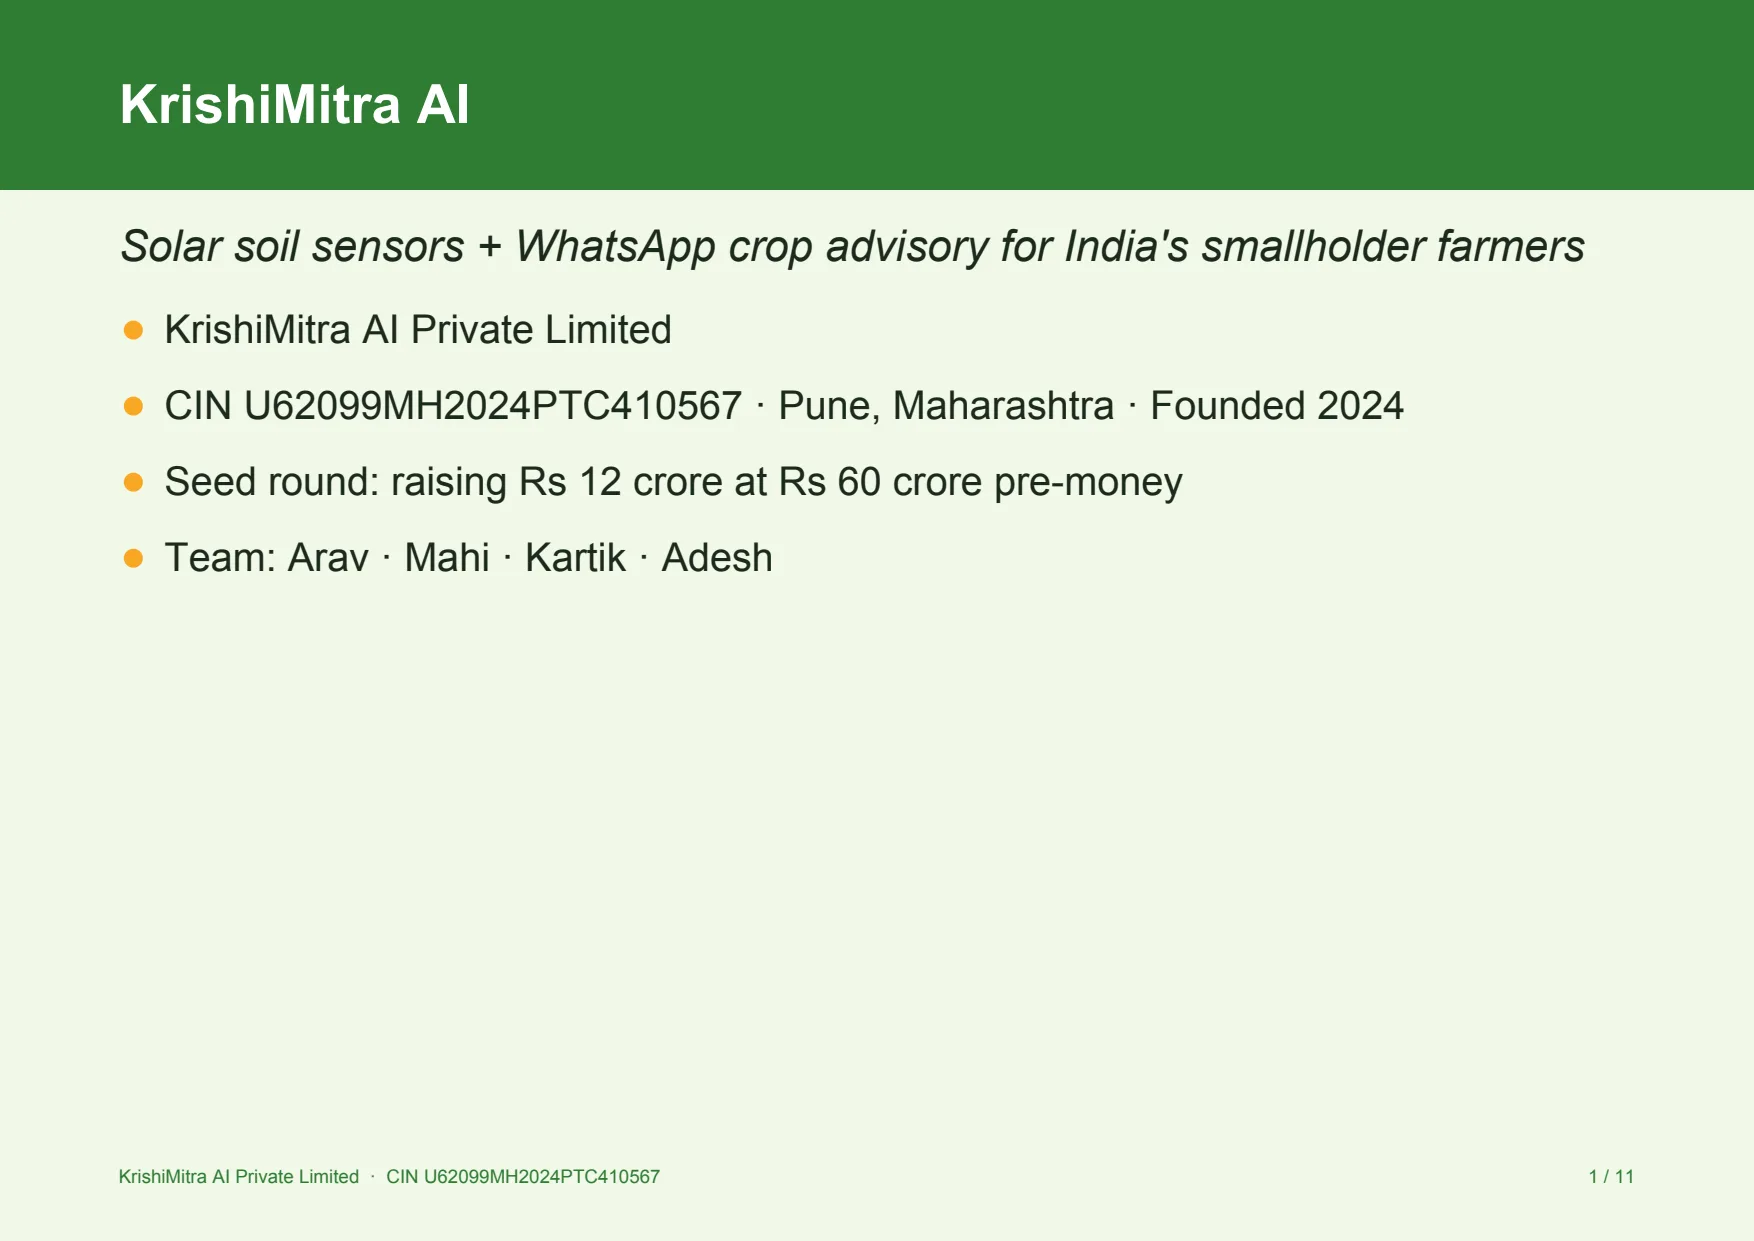
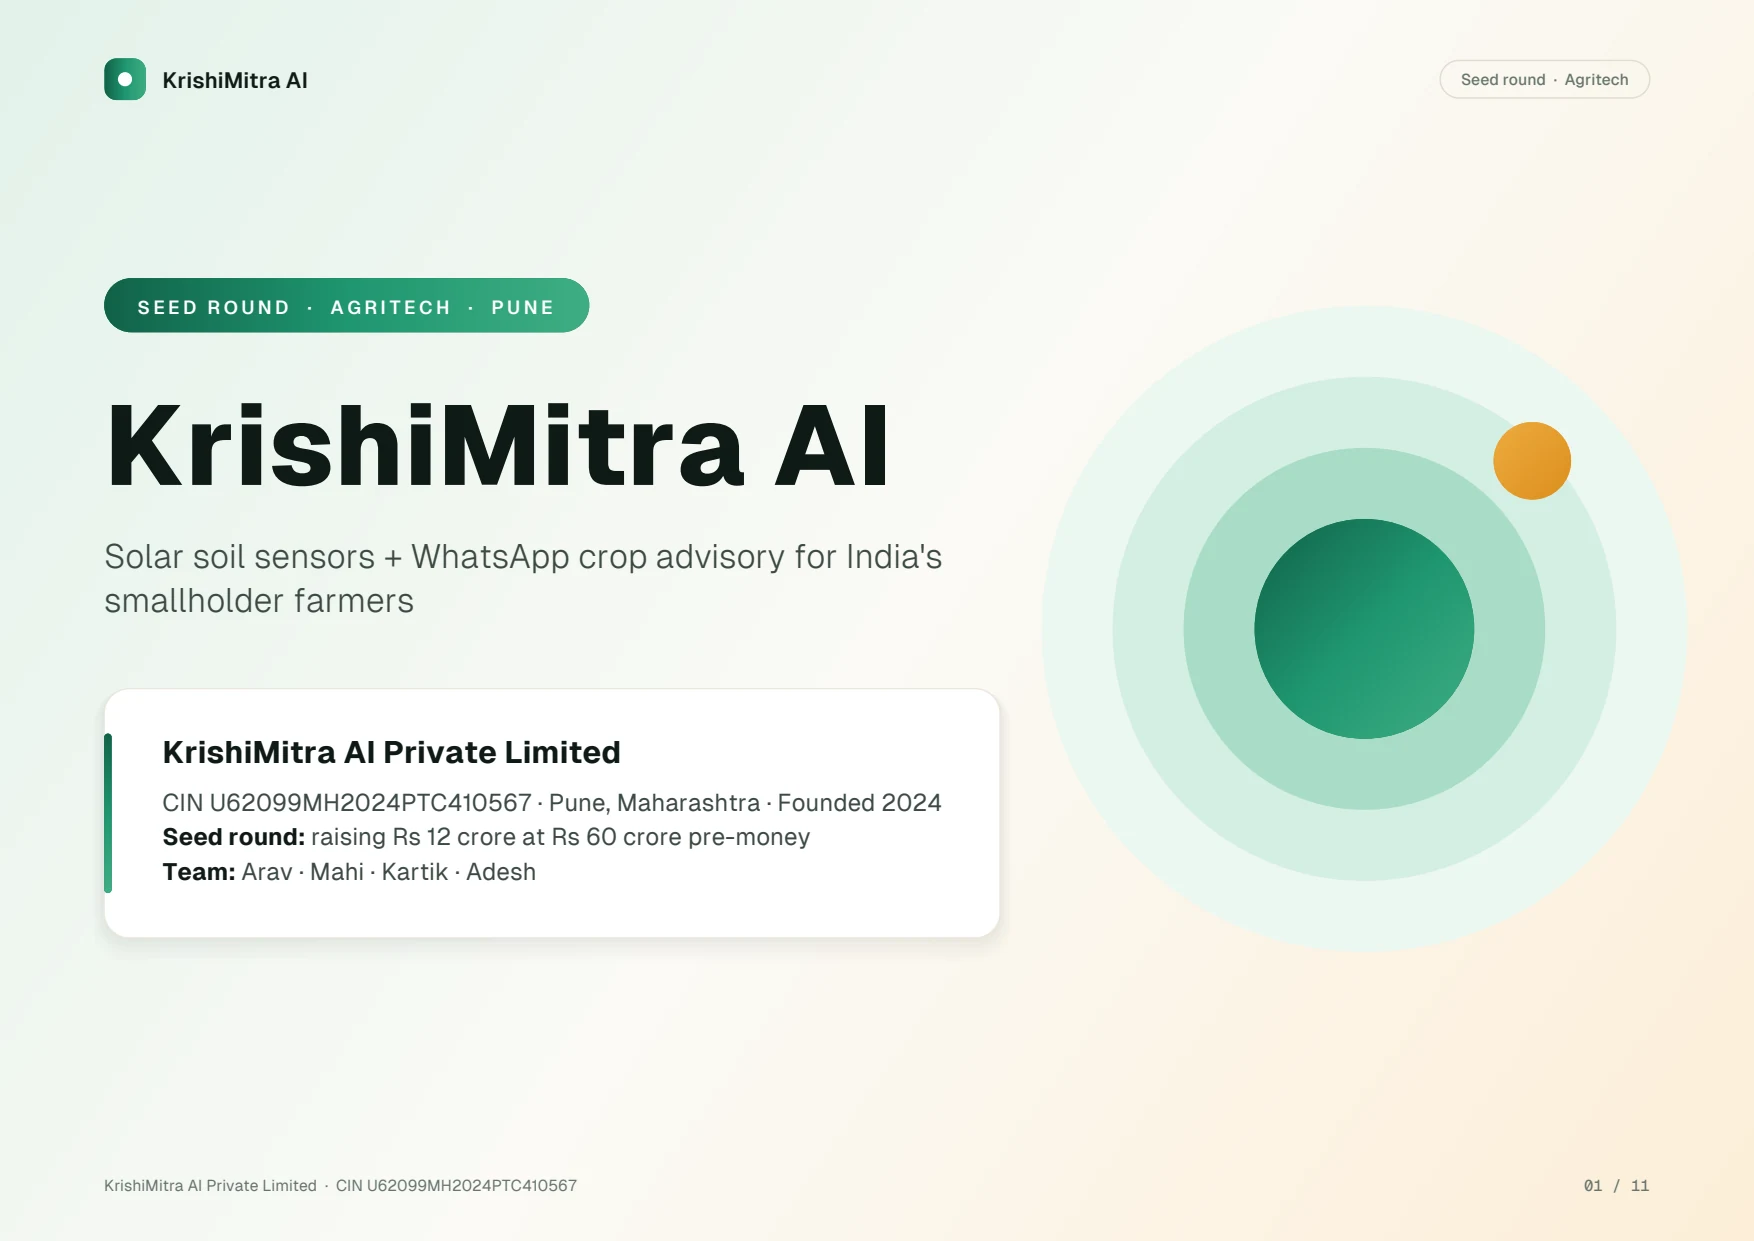
Hero: show the redesigned KrishiMitra AI deck
Page renders, TitanOCR's lines on page 4, the TAM passage's citation id and the exact box of
"USD 82.3M in 2025" (from the PDF's text layer, no longer estimated from font metrics) come from the
re-seeded deck; the Cite and Verify shots are re-aimed at the new TAM card.

diff --git a/frontend/src/components/landing/heroData.ts b/frontend/src/components/landing/heroData.ts
@@ -5,24 +5,32 @@ export const HERO_PAGE = {
   src: '/hero/krishimitra-p4.webp',
   width: 1754,
   height: 1241,
-  cid: 'c:higtc4h',
-  ocrSeconds: 6.0,
+  cid: 'c:32qwuis',
+  ocrSeconds: 5.5,
   pages: 11,
 }
 
 export const HERO_LINES: { text: string; box: [number, number, number, number] }[] = [
-  { text: 'Market Opportunity (TAM / SAM / SOM)', box: [0.0677, 0.0554, 0.63905, 0.09905] },
-  { text: 'TAM — India agriculture IoT: USD 82.3M in 2025, projected USD 154.8M by 2030', box: [0.09383, 0.17795, 0.91287, 0.20984] },
-  { text: 'at 13.5% CAGR (Source: MarketsandMarkets, India Agriculture IoT Market', box: [0.09383, 0.22324, 0.84007, 0.25514] },
-  { text: '2025-2030)', box: [0.09383, 0.26853, 0.20924, 0.30043] },
-  { text: 'SAM — Marathi/Hindi smallholder segment (Maharashtra, Karnataka, MP): USD', box: [0.09383, 0.32977, 0.8952, 0.36167] },
-  { text: '24.7M in 2025 (company estimate)', box: [0.09383, 0.37507, 0.44126, 0.40696] },
-  { text: 'SOM — 3-year obtainable share of SAM: USD 3.7M in 2028 (company projection)', box: [0.09383, 0.43631, 0.91159, 0.4682] },
-  { text: 'India agriculture IoT CAGR: 13.5% (2025-2030) (Source: MarketsandMarkets)', box: [0.09383, 0.49755, 0.87395, 0.52945] },
+  { text: "04 \u00b7 MARKET", box: [0.05939, 0.12926, 0.15935, 0.14437] },
+  { text: "Market Opportunity (TAM / SAM / SOM)", box: [0.05939, 0.14605, 0.80272, 0.19809] },
+  { text: "TAM \u2014 India agriculture IoT: USD 82.3M in 2025,", box: [0.09502, 0.28783, 0.47407, 0.31134] },
+  { text: "projected USD 154.8M by 2030 at 13.5% CAGR (Source:", box: [0.09502, 0.3198, 0.52392, 0.3433] },
+  { text: "MarketsandMarkets, India Agriculture IoT Market", box: [0.09502, 0.35176, 0.47868, 0.37526] },
+  { text: "2025-2030)", box: [0.09502, 0.38373, 0.19187, 0.40723] },
+  { text: "SAM \u2014 Marathi/Hindi smallholder segment", box: [0.09502, 0.4862, 0.43316, 0.5097] },
+  { text: "(Maharashtra, Karnataka, MP): USD 24.7M in 2025", box: [0.09502, 0.51816, 0.48624, 0.54166] },
+  { text: "(company estimate)", box: [0.09502, 0.55012, 0.24915, 0.57363] },
+  { text: "SOM \u2014 3-year obtainable share of SAM: USD 3.7M in", box: [0.09502, 0.65259, 0.50761, 0.6761] },
+  { text: "2028 (company projection)", box: [0.09502, 0.68456, 0.30494, 0.70806] },
+  { text: "India agriculture IoT CAGR: 13.5% (2025-2030)", box: [0.09502, 0.78703, 0.47184, 0.81053] },
+  { text: "(Source: MarketsandMarkets)", box: [0.09502, 0.81899, 0.32784, 0.8425] },
 ]
 
 /** The cited claim: the TAM sentence spans these lines. */
-export const CITED_LINES = [1, 2, 3]
+export const CITED_LINES = [2, 3, 4, 5]
+
+/** Where "USD 82.3M in 2025" sits on the page (from the PDF's text layer), for the market check. */
+export const HERO_FIGURE: [number, number, number, number] = [0.31984, 0.2932, 0.47409, 0.31672]
 
 export const HERO_EVALUATION = {
   score: 6.2,

diff --git a/frontend/src/components/landing/HeroDesk.tsx b/frontend/src/components/landing/HeroDesk.tsx
@@ -4,7 +4,7 @@ import { useEffect, useRef, useState } from 'react'
 import { AnimatePresence, MotionConfig, motion, useReducedMotion } from 'framer-motion'
 import { clsx } from 'clsx'
 import type { Box, Desk, DeskFrame } from './desk/scene'
-import { CITED_LINES, HERO_EVALUATION, HERO_LINES, HERO_PAGE } from './heroData'
+import { CITED_LINES, HERO_EVALUATION, HERO_FIGURE, HERO_LINES, HERO_PAGE } from './heroData'
 
 // The hero: a WebGL desk fills the section and the copy sits over its dark side. Four steps follow one real
 // claim from KrishiMitra AI's deck: TitanOCR reads the page, the claim is cited to its lines, its figure is
@@ -19,25 +19,10 @@ const STEPS = [
 const EASE = [0.16, 1, 0.3, 1] as const
 /** The entrance (camera settles, pages and coins land) plays before the first scan. */
 const SCAN_DELAY = 1800
-const FIGURE = 'USD 82.3M in 2025'
-const CLAIM_LINE = HERO_LINES[CITED_LINES[0]]
 const CITED_BOX: Box = [
   Math.min(...CITED_LINES.map(i => HERO_LINES[i].box[0])), Math.min(...CITED_LINES.map(i => HERO_LINES[i].box[1])),
   Math.max(...CITED_LINES.map(i => HERO_LINES[i].box[2])), Math.max(...CITED_LINES.map(i => HERO_LINES[i].box[3])),
 ]
-
-/** Where the figure sits inside its line, measured with the slide's font metrics. */
-function figureBox(): Box {
-  const g = document.createElement('canvas').getContext('2d')!
-  g.font = '40px Helvetica, Arial, sans-serif'
-  const text = CLAIM_LINE.text
-  const at = text.indexOf(FIGURE)
-  const full = g.measureText(text).width
-  const a = g.measureText(text.slice(0, at)).width / full
-  const b = g.measureText(text.slice(0, at + FIGURE.length)).width / full
-  const [x0, y0, x1, y1] = CLAIM_LINE.box
-  return [x0 + (x1 - x0) * a, y0, x0 + (x1 - x0) * b, y1]
-}
 
 function ReadNote({ line, done }: { line: React.Ref<HTMLSpanElement>; done: React.Ref<HTMLSpanElement> }) {
   return (
@@ -59,7 +44,7 @@ function CiteNote() {
         USD 82.3M <span className="text-[0.95rem] font-normal text-mist-2">TAM, 2025</span>
       </p>
       <p className="mt-3 inline-flex rounded-md bg-jade-400/15 px-2 py-1 font-mono text-[0.66rem] text-jade-200 ring-1 ring-jade-400/30">
-        [{HERO_PAGE.cid}] → p.4 · lines 2–4
+        [{HERO_PAGE.cid}] → p.4 · lines {CITED_LINES[0] + 1}–{CITED_LINES[CITED_LINES.length - 1] + 1}
       </p>
     </div>
   )
@@ -189,7 +174,7 @@ export function HeroDesk({ children, footer }: { children: React.ReactNode; foot
   useEffect(() => {
     let cancelled = false
     let made: Desk | null = null
-    const figure = figureBox()
+    const figure = HERO_FIGURE
     const pos = { x: NaN, y: NaN }
     let lastRead = -1
 

diff --git a/frontend/src/app/page.tsx b/frontend/src/app/page.tsx
@@ -15,7 +15,7 @@ const LINE = { hidden: { y: '110%' }, show: { y: '0%', transition: { duration: 1
 const REVEAL = { initial: { opacity: 0, y: 22 }, whileInView: { opacity: 1, y: 0 }, viewport: { once: true, margin: '-60px' }, transition: { duration: 0.7, ease: [0.16, 1, 0.3, 1] as const } }
 
 const LEDGER = [
-  { n: '01', title: 'Read every page', text: 'Decks, slides and scans are read by TitanOCR. Each line keeps its box on the page, its confidence, and a flag if it hides instructions for an AI.', receipt: '11 pages · 6.0 s · conf 1.00' },
+  { n: '01', title: 'Read every page', text: 'Decks, slides and scans are read by TitanOCR. Each line keeps its box on the page, its confidence, and a flag if it hides instructions for an AI.', receipt: '11 pages · 5.5 s · conf 1.00' },
   { n: '02', title: 'Research like an analyst', text: 'An agent searches the market, checks the deck’s own figures against what it finds, and records every source it read.', receipt: 'deck [c:…] · web [w:n]' },
   { n: '03', title: 'Score on a fixed rubric', text: 'Seven anchored dimensions, five independent judgments each. The overall is computed, never guessed; registry problems cap the label.', receipt: 'σ 0.16 over 5 runs' },
   { n: '04', title: 'Decide together', text: 'Investors review and rank, then vote quadratically and pledge AuraCoin into escrow that is released milestone by milestone.', receipt: 'n votes = n² AC' },

diff --git a/frontend/src/components/landing/desk/scene.ts b/frontend/src/components/landing/desk/scene.ts
@@ -49,8 +49,8 @@ const SCAN_END = 1.06
 // One camera shot per step: where on the page to look, how close, and a small orbit.
 const SHOTS = [
   { u: 0.56, v: 0.52, zoom: 1, azim: 0, elev: 0 },
-  { u: 0.6, v: 0.32, zoom: 1.3, azim: -4, elev: 3 },
-  { u: 0.5, v: 0.26, zoom: 1.6, azim: 5, elev: 5 },
+  { u: 0.44, v: 0.37, zoom: 1.3, azim: -4, elev: 3 },
+  { u: 0.42, v: 0.32, zoom: 1.6, azim: 5, elev: 5 },
   { u: 0.66, v: 0.58, zoom: 0.94, azim: 9, elev: -3 },
 ]
 // Overlay strength per step: every line, the cited claim, the checked figure.
